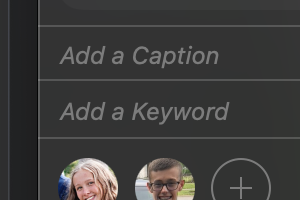
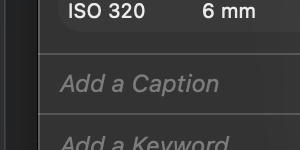
oh that's pretty quick

diff --git a/automator.js b/automator.js
@@ -92,7 +92,7 @@ const navigateToLastPosition = async (count) => {
     }
   }
 
-  console.log(`\r✓ Navigated to photo #${count + 1}       `);
+  console.log(`\r✅ Navigated to photo #${count + 1}       `);
 
   // Click back on terminal
   await clickAt(POSITIONS.terminal.x, POSITIONS.terminal.y);
@@ -103,6 +103,7 @@ const navigateToLastPosition = async (count) => {
 
 // Main workflow automation
 const processSinglePhoto = async (caption, currentCount) => {
+  console.time("processSinglePhoto");
   console.log(`[Photo ${currentCount}] Processing caption: "${caption}"`);
 
   // 1. Click on Photos window
@@ -122,8 +123,8 @@ const processSinglePhoto = async (caption, currentCount) => {
   await sleep(DELAYS.betweenActions);
 
   // 4. Type the caption
-  //   await typeText(caption);
-  //   await sleep(DELAYS.betweenActions);
+  await typeText(caption);
+  await sleep(DELAYS.betweenActions);
 
   // 5. Close info panel (Command + I)
   await clickAt(POSITIONS.infoIcon.x, POSITIONS.infoIcon.y);
@@ -141,6 +142,7 @@ const processSinglePhoto = async (caption, currentCount) => {
   await clickAt(POSITIONS.terminal.x, POSITIONS.terminal.y);
   await sleep(DELAYS.betweenActions);
 
+  console.timeEnd("processSinglePhoto");
   console.log("✓ Caption added, moved to next photo\n");
 };
 
@@ -240,12 +242,5 @@ const startCaptionLoop = async () => {
 
   promptForCaption();
 };
-
-// Start the script
-console.log("Photo Caption Automation Script");
-console.log("Make sure you have:\n");
-console.log("1. Updated POSITIONS object with correct coordinates");
-console.log("2. Photos app open with a photo selected");
-console.log("3. Terminal window positioned correctly\n");
 
 startCaptionLoop();

diff --git a/captionfinder.js b/captionfinder.js
@@ -1,6 +1,5 @@
 const path = require("path");
 const fs = require("fs");
-const robot = require("robotjs");
 const screenshot = require("screenshot-desktop");
 const PNG = require("pngjs").PNG;
 const pixelmatchLib = require("pixelmatch");
@@ -11,11 +10,11 @@ const CAPTION_SEARCH_AREA = {
   x: 760 * 2, // left
   y: 360 * 2, // top
   width: 150 * 2, // horizontal range
-  height: 100 * 2, // vertical range
+  height: 75 * 2, // vertical range
 };
 
 // Load template image (the caption box template)
-const templatePath = path.join(__dirname, "captionTemplate.png");
+const templatePath = path.join(__dirname, "captionTemplate2.png");
 if (!fs.existsSync(templatePath)) {
   throw new Error(`Template image not found at ${templatePath}`);
 }
@@ -68,8 +67,8 @@ const findCaptionBox = async () => {
     }
 
     // Save debug screenshot of the cropped area (optional - comment out for speed)
-    // const croppedBuffer = PNG.sync.write(croppedImg);
-    // fs.writeFileSync(path.join(__dirname, "debug_cropped.png"), croppedBuffer);
+    const croppedBuffer = PNG.sync.write(croppedImg);
+    fs.writeFileSync(path.join(__dirname, "debug_cropped.png"), croppedBuffer);
 
     const { width: bw, height: bh } = croppedImg;
 
